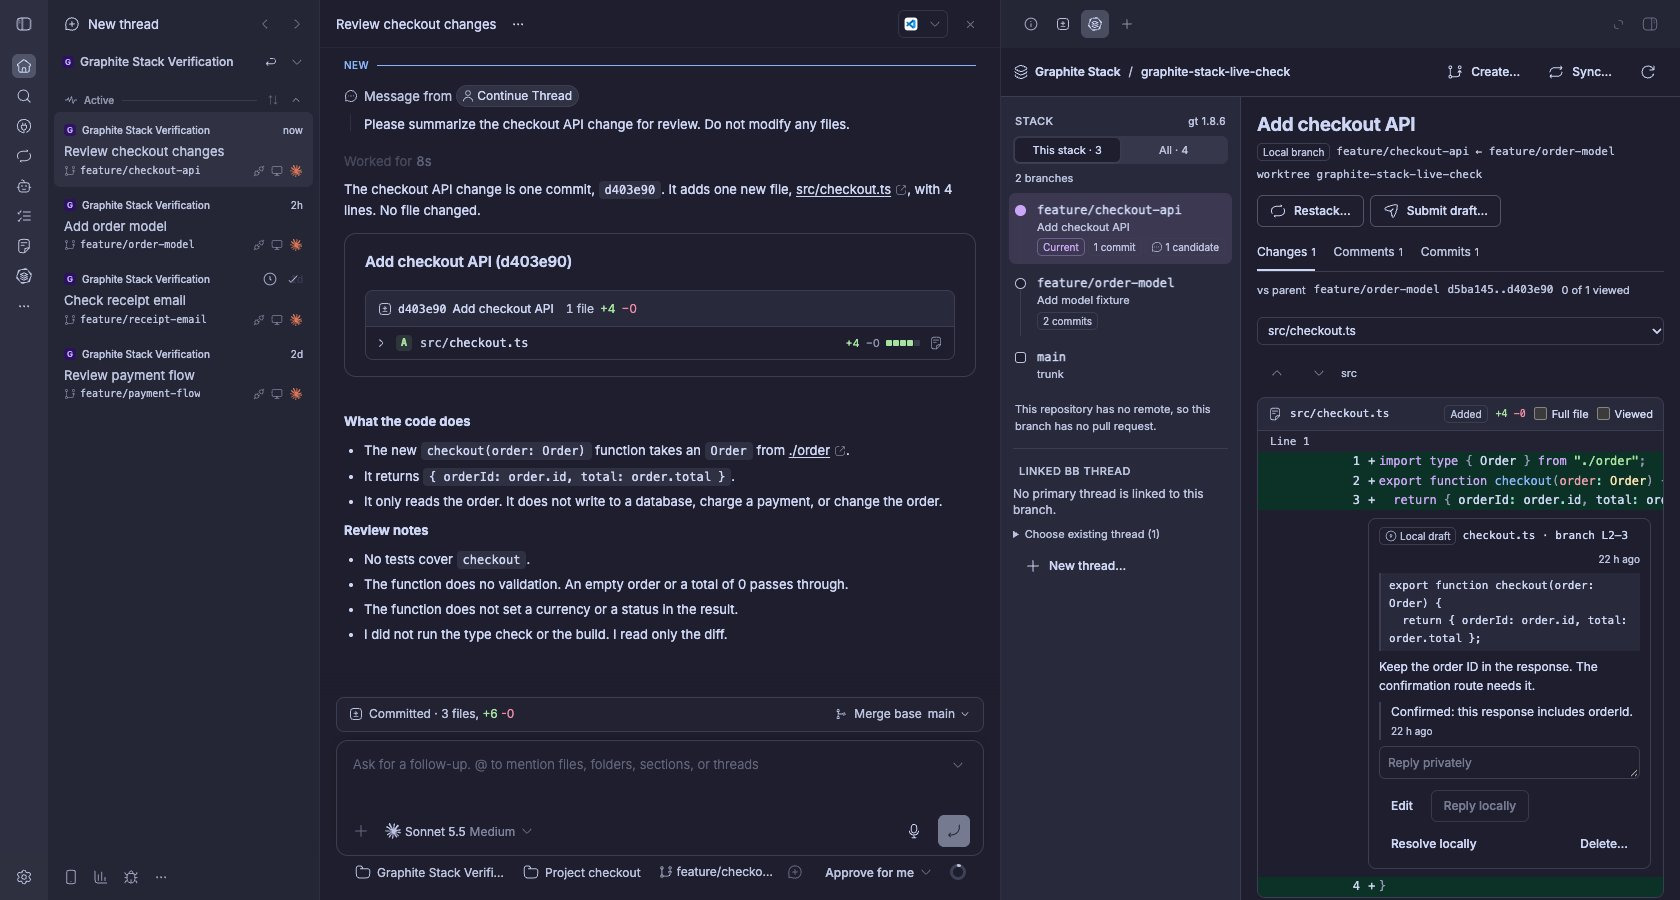
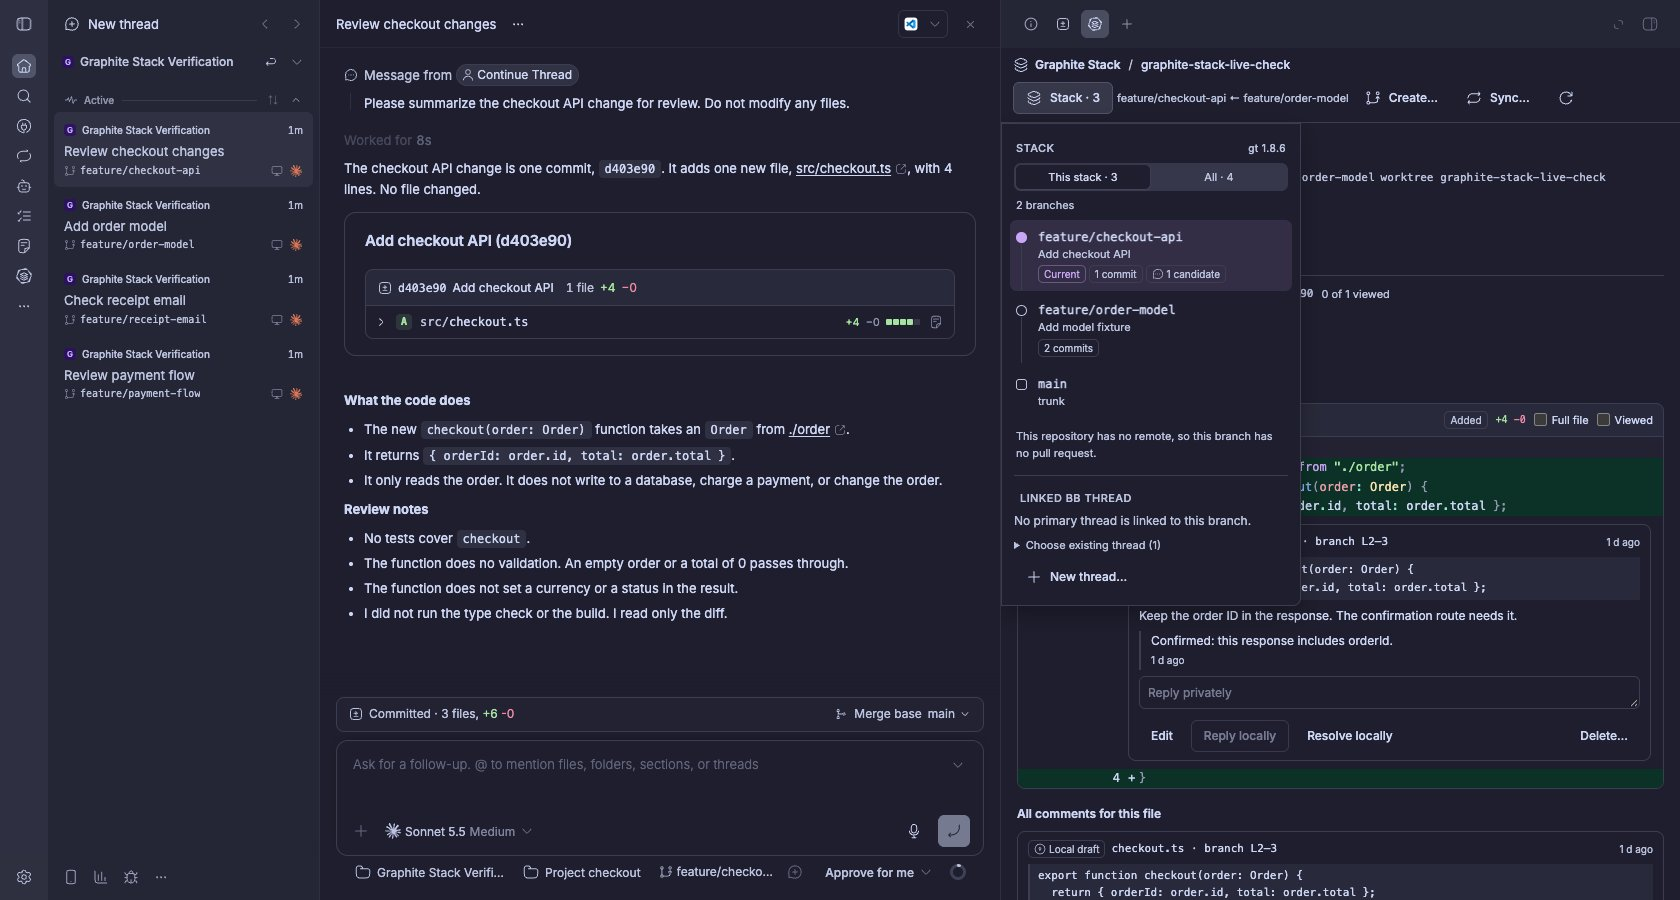
Refresh screenshots for compact stack review

diff --git a/README.md b/README.md
@@ -7,7 +7,7 @@ stack that `gt` tracks on each environment's machine. It needs no pull request,
 no GitHub authentication, and no Git remote. PR data from GitHub is optional
 enrichment.
 
-![Graphite Stack review with a fictional checkout branch, inline diff, and local comment](docs/screenshots/review.jpg)
+![A fictional BB thread beside the Graphite Stack file tree, inline diff, and local comment](docs/screenshots/review.jpg)
 
 <sub>BB review view with fictional project data. The interface follows your BB theme.</sub>
 
@@ -17,7 +17,7 @@ Open the **Graphite** tab in a thread's right panel to follow the stack and revi
 changes beside the conversation. The panel uses the thread's environment, so
 you can see the branches and local comments for that work.
 
-![A BB thread beside the Graphite Stack review panel, using a fictional verification repository](docs/screenshots/thread-review.jpg)
+![A BB thread beside the open Graphite Stack selector, using a fictional verification repository](docs/screenshots/thread-review.jpg)
 
 <sub>Real BB thread and Graphite panel with a fictional verification repository. Additional thread-list entries are simulated.</sub>
 
